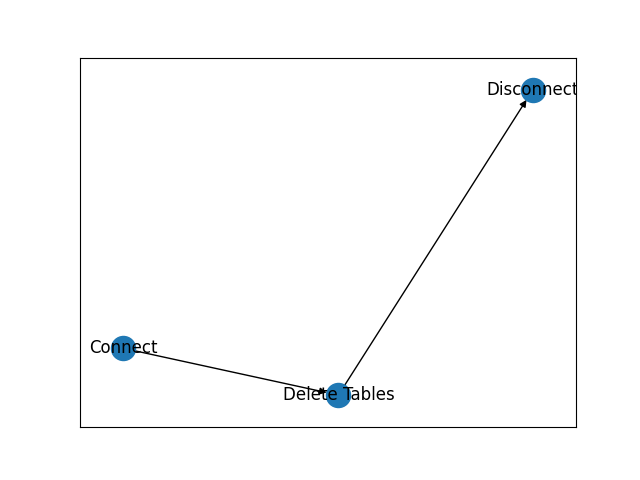
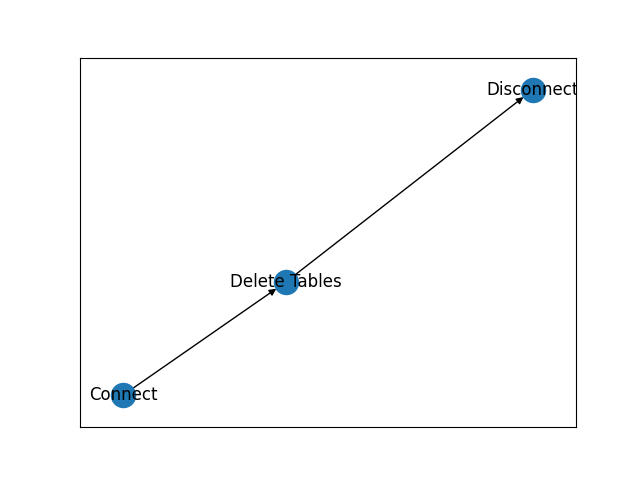
Corrected Dag, Fixed Queue

diff --git a/Nara/main.py b/Nara/main.py
@@ -1,36 +1,35 @@
 import psycopg2
+from queue_module import creation_queue, deletion_queue 
 from tasks import ConcreteTask as Task 
-from queue import creation_queue, deletion_queue
-from dag import visualize_dag1, visualize_dag2
+from dag import visualize_dag1, visualize_dag2, visualize_dag3 
 
 '''
 ================Creating a Connection================
 '''
 
-def create_cursor(): 
-    credent = []
-    with open('.vscode/Credentials.txt') as file:
-      for line in file: 
-        line=line[0:-1]
-        credent.append(line)
-    conn = psycopg2.connect(host=credent[0],port=credent[1], dbname=credent[2],user=credent[3],password=credent[4])
-    cur = conn.cursor() #creates cursor
-    print("Connection Established")
-    return cur, conn #returns cursor
+def create_cursor(): #defines function
+    credent = [] #creates empty list
+    with open('.vscode/Credentials.txt') as file: #opens file with credentials 
+      for line in file: #each line is a separate thing in the credentials file 
+        line=line[0:-1] #i need each line without the /n at the end 
+        credent.append(line) #adding it to the list
+    conn = psycopg2.connect(host=credent[0],port=credent[1], dbname=credent[2],user=credent[3],password=credent[4]) #using psycopg2 to create a connection
+    cur = conn.cursor() #creates cursor on the connection
+    print("Connection Established") #prints that the connection is established 
+    return cur, conn #returns cursor and connection objects that can be used later 
     
 '''
 ================Creating a Connection================
 '''
 
 '''
-================Runs SQL on Given Connection================
+================Runs given SQL statement on Given Connection================
 '''
-def run_sql(sql, cur, conn):
+def run_sql(sql, cur, conn): 
     
-    cur.execute(sql)
-    conn.commit()
-    #values = cur.fetchall()
-    #return values 
+    cur.execute(sql) #runs the given sql command
+    conn.commit() #commits the sql command that was ran. 
+    
 '''
 ================Runs given SQL statement on Given Connection================
 '''
@@ -39,32 +38,32 @@ def run_sql(sql, cur, conn):
 ================Iterates Through SQL statements in sql_dimensions.txt file and uses run_sql funct================
 '''
 def create_dimension_tables(cur, conn):
-    with open('Nara/sql_dimensions.txt') as file:
-      for line in file: 
-        run_sql(line,cur,conn)
-    print("Dimension Tables Created")
+    with open('Nara/sql_dimensions.txt') as file: #open the txt file that has a sql statement in every line
+      for line in file: #for each line in the file 
+        run_sql(line,cur,conn) #use the line as the sql statement to be run. 
+    print("Dimension Tables Created") #after using the file and running all statements, prints Dimension Tables Created
 '''
 ================Iterates Through SQL statements in sql_dimensions.txt file and uses run_sql funct================
 '''
-        
-#create_dimension_tables(cur, conn) #just for me to test in the beginning
+
 '''
 ================Iterates Through SQL statements in sql_aggregate.txt file and uses run_sql funct================
 '''
 def create_aggregated_table(cur, conn): 
+  #identical to create_dimension_tables, just uses a different filepath
     with open('Nara/sql_aggregate.txt') as file: 
-        for line in file:
+        for line in file: 
           run_sql(line, cur, conn)
     print("Aggregated Table Created")
 '''
 ================Iterates Through SQL statements in sql_aggregate.txt file and uses run_sql funct================
 '''
           
-#create_aggregated_table(cur, conn) #just for me to test in the beginning
 '''
 ================Iterates Through SQL statements in sql_breakdown_tables.txt file and uses run_sql funct================
 '''
 def breakdown_tables(cur, conn):
+  #identical to create_dimension_tables, just uses a different filepath
   with open('Nara/sql_breakdown_tables.txt') as file: 
     for line in file: 
         run_sql(line, cur, conn)
@@ -72,18 +71,23 @@ def breakdown_tables(cur, conn):
 '''
 ================Iterates Through SQL statements in sql_breakdown_tables.txt file and uses run_sql funct================
 '''
-
-def close_connection(cur, conn): 
-  cur.close()
-  conn.close()
-  print("Connection Closed")
-            
-#breakdown_tables(cur,conn) #deletes all tables in order so no errors occur. 
+'''
+================Close Connection================
+'''
+def close_connection(cur, conn): #calling this function closes the connection
+  cur.close() #closes the cursor first
+  conn.close() #then closes the conn object
+  print("Connection Closed") #prints the connection is closed 
+'''
+================Close Connection================
+''' 
 
 '''
 ================Assigning Tasks================
 '''
-create_conn = Task(create_cursor)
+#Tasks are created in tasks.py file and imported from there
+#They are just assigned to variables so they can be used with .run()
+create_conn = Task(create_cursor) 
 create_dim = Task(create_dimension_tables)
 create_agg = Task(create_aggregated_table) 
 breakdown = Task(breakdown_tables)
@@ -94,8 +98,8 @@ close_conn = Task(close_connection)
 '''
 ================Creating Queues================
 '''
-create = creation_queue()
-delete = deletion_queue()
+create_queue = creation_queue() 
+delete_queue = deletion_queue()
 '''
 ================Creating Queues================
 '''
@@ -104,18 +108,14 @@ delete = deletion_queue()
 '''
 ================Creating DAGs================
 '''
-visualize_dag1()
-visualize_dag2()
+visualize_dag1() #creates a visualization of a dag for creating the tables
+visualize_dag2() #creates a visualization of a dag for deleting the tables 
+visualize_dag3() #creates a visualization of both dags together in one picture. 
 '''
 ================Creating DAGs================
 '''
 
 def main() -> None: 
-  
-    
-    
-    
-    
   
   
   

diff --git a/Nara/dag.py b/Nara/dag.py
@@ -1,14 +1,18 @@
 import networkx as nx 
 from matplotlib import pyplot as plt
 
-creation_graph = nx.DiGraph()
-deletion_graph = nx.DiGraph()
-creation_graph_numbers = nx.DiGraph()
+creation_graph = nx.DiGraph() #creates an empty DiGraph object
+deletion_graph = nx.DiGraph() #creates an empty DiGraph object
+entire_graph = nx.DiGraph() #creates an empty DiGraph object
 
-creation_graph.add_edges_from([("Connect","Create Dim Tables"),("Create Dim Tables","Create Agg Table"),("Create Agg Table","Disconnect")])
+#By adding edges, the nodes are added as well. 
+#There are 2 different activities - creating tables or deleting tables that one can do with the project. 
+
+creation_graph.add_edges_from([("Connect","Create Dim Tables"),("Create Dim Tables","Create Agg Table"),("Create Agg Table","Disconnect")]) 
 deletion_graph.add_edges_from([("Connect","Delete Tables"),("Delete Tables","Disconnect")])
+entire_graph.add_edges_from([("Connect","Create Dim Tables"),("Create Agg Table","Delete Tables"),("Create Dim Tables","Create Agg Table"),("Create Agg Table","Disconnect"),("Connect","Delete Tables"),("Delete Tables","Disconnect")])
 
-def visualize_dag1():
+def visualize_dag1(): #function that creates dag visualization
     plt.figure()
     nx.draw_networkx(creation_graph, arrows = True, with_labels = True)
     plt.savefig('DAGs/creation_dag.png', format="png")
@@ -20,3 +24,8 @@ def visualize_dag2():
     plt.savefig('DAGs/deletion_dag.png', format="png")
     plt.clf()
 
+def visualize_dag3():
+    plt.figure()
+    nx.draw_networkx(entire_graph, arrows = True, with_labels = True)
+    plt.savefig('DAGs/entire_dag.png', format="png")
+    plt.clf()

diff --git a/Nara/tasks.py b/Nara/tasks.py
@@ -1,18 +1,15 @@
-from typing import TypeVar
 from abc import ABCMeta, abstractmethod
 
-Task = TypeVar('Task')
 
-
-class AbstractTask(metaclass=ABCMeta):
+class AbstractTask(metaclass=ABCMeta): #This is an abstract class requiring every concrete class to have a run method
 
     @abstractmethod 
     def run(self): #defining a method that needs to be implemented
         raise NotImplementedError("Must be implemented by every task")
 
 class ConcreteTask(AbstractTask): #concrete class
-    def __init__(self, function: callable):
-        self.function = function
+    def __init__(self, function: callable): #gets instanciated by giving it a callable called function
+        self.function = function 
     
-    def run(self, *args, **kwargs): #provides implementation details. 
-        return self.function(*args,**kwargs) 
+    def run(self, *args, **kwargs): #provides implementation details for method run 
+        return self.function(*args,**kwargs) #returns the result of the function 

diff --git a/Nara/queue_module.py b/Nara/queue_module.py
@@ -1,5 +1,6 @@
 from collections import deque
 
+
 def creation_queue():  
     
     create_stack = deque()
@@ -10,7 +11,8 @@ def creation_queue():
     
     return create_stack
 
-#print(create_stack)
+create_stack = creation_queue()
+print(create_stack)
 
 def deletion_queue(): 
     
@@ -21,5 +23,6 @@ def deletion_queue():
     
     return delete_stack
 
-#print(delete_stack) 
+delete_stack = deletion_queue()
+print(delete_stack) 
 
